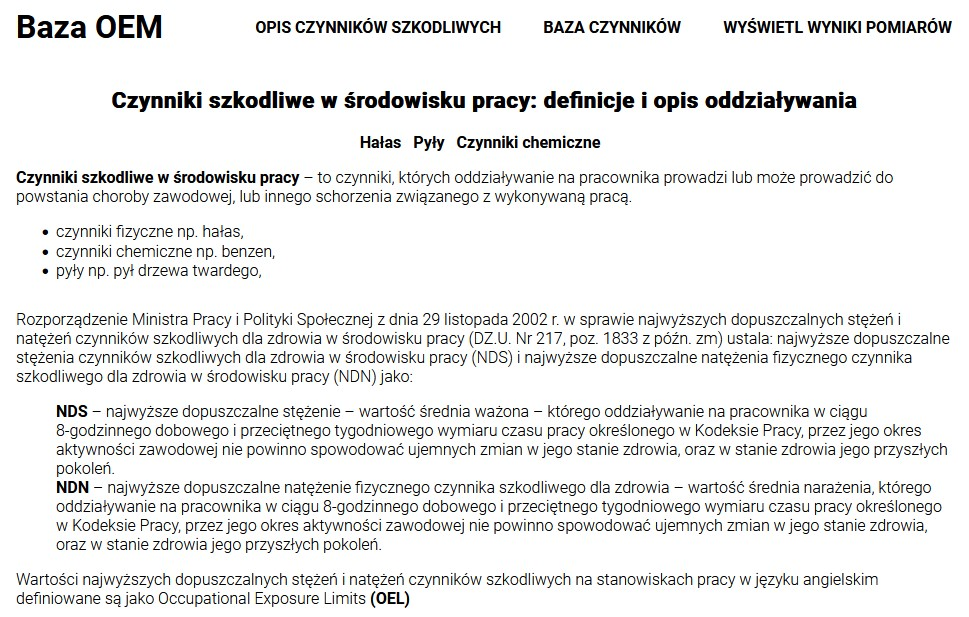
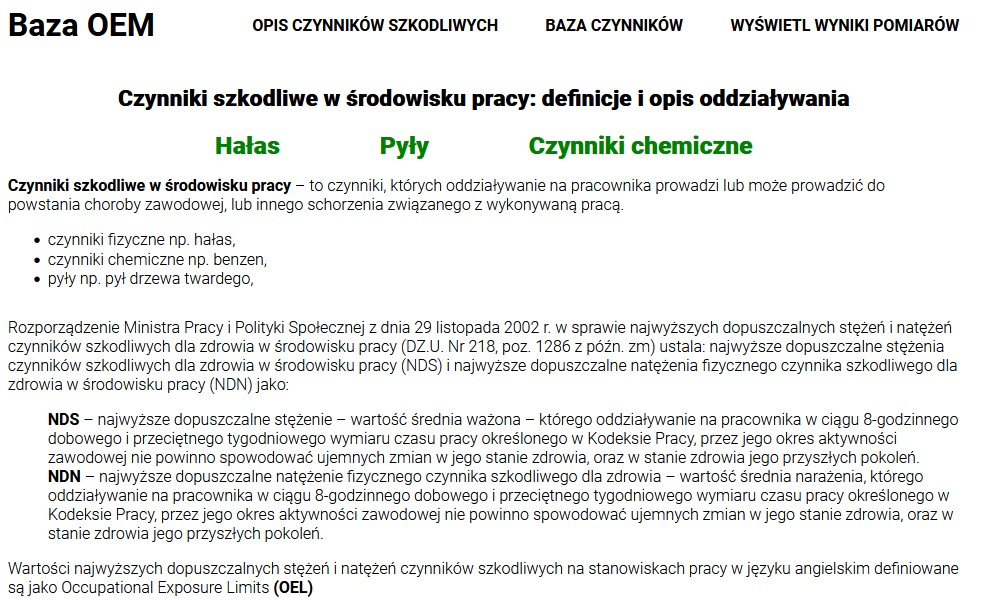
Drobne poprawki strony do strony z opisem czynników oraz plikiem readme

diff --git a/src/main/resources/templates/factorsDescriptionPage.html b/src/main/resources/templates/factorsDescriptionPage.html
@@ -8,8 +8,10 @@
       <h1>Czynniki szkodliwe w środowisku pracy: definicje i opis oddziaływania</h1>
     </header>
 
-    <nav>
-      <b>Hałas &nbsp; Pyły &nbsp; Czynniki chemiczne &nbsp;</b>
+    <nav class="description">
+        <a href="#noise"><div>Hałas</div></href>
+        <a href="#dust"><div>Pyły</div></a>
+        <a href="#chemicals"><div>Czynniki chemiczne</div></a>
     </nav>
 
     <main>
@@ -46,7 +48,7 @@
       </section>
       <section>
         <dl>
-          <dt><b>Hałas</b></dt>
+          <dt id="noise"><b>Hałas</b></dt>
           <dd>
             <p>Hałasem określa się wszelkie niepożądane, nieprzyjemne, dokuczliwe, uciążliwe lub szkodliwe
               drgania ośrodka sprężystego, oddziaływujące za pośrednictwem powietrza na narząd słuchu i
@@ -98,7 +100,7 @@
               <li>dla szczytowego poziomu dźwięku C – 135 dB,</li>
             </ul>
           </dd>
-          <dt><b>Pyły</b></dt>
+          <dt id="dust"><b>Pyły</b></dt>
           <dd style="font-weight: 200">
             <p>Pyły, pochodzące najczęściej z obróbki rozmaitych materiałów, często mogą być szkodliwe dla
               zdrowia człowieka, jeżeli dostaną się do układu oddechowego. Właśnie dlatego stanowiska, na
@@ -130,7 +132,7 @@
               </li>
             </ul>
           </dd>
-          <dt><b>Czynniki chemiczne</b></dt>
+          <dt id="chemicals"><b>Czynniki chemiczne</b></dt>
           <dd style="font-weight: 200">
             <p>Czynniki chemiczne w środowisku pracy mogą powodować problemy zdrowotne w miejscu pracy.
               Najczęstsze skutki narażenia na działanie środków chemicznych to podrażnienie oczu, nosa i

diff --git a/src/main/resources/static/css/style.css b/src/main/resources/static/css/style.css
@@ -158,6 +158,17 @@ section {
     text-align: center
 }
 
+.description {
+    display: flex;
+    flex-direction: row;
+    justify-content: center;
+    gap: 100px;
+    font-weight: bold;
+    color: green;
+    font-size: 1.5em;
+}
+
+
 /*Strona measurementConfirmationPage*/
 #measurement-confirmed-content h1 {
     font-size: 2em
